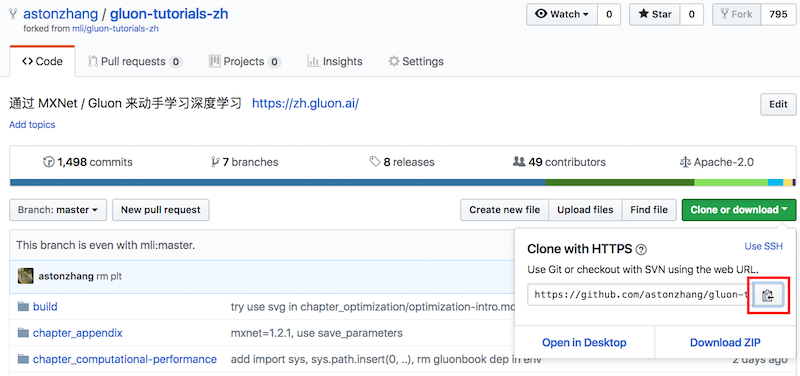
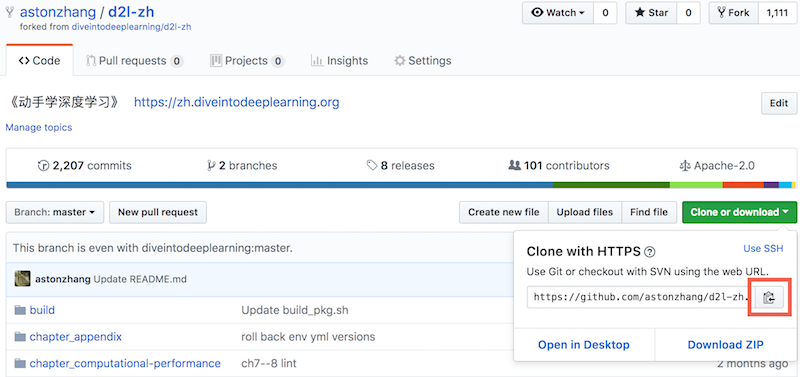
gluon_tutorials_zh to d2l-zh

diff --git a/chapter_appendix/how-to-contribute.md b/chapter_appendix/how-to-contribute.md
@@ -15,7 +15,7 @@
 ![代码库的页面。](../img/contrib01.png)
 
 
-这时，本书的代码库会复制到你的用户名下，例如图11.21左上方显示的“你的Github ID/gluon-tutorials-zh”。
+这时，本书的代码库会复制到你的用户名下，例如图11.21左上方显示的“你的Github ID/d2l-zh”。
 
 ![复制代码库。](../img/contrib02.png)
 
@@ -24,13 +24,13 @@
 
 ```
 # 将 your_Github_ID 替换成你的 Github 用户名。
-git clone https://github.com/your_Github_ID/gluon-tutorials-zh.git
+git clone https://github.com/your_Github_ID/d2l-zh.git
 ```
 
-这时，本地的“~/repo/gluon-tutorials-zh”路径下将包含本书代码库中的所有文件。
+这时，本地的“~/repo/d2l-zh”路径下将包含本书代码库中的所有文件。
 
 
-第四步，编辑本地路径下的本书代码库。假设我们修改了`~/repo/gluon-tutorials-zh/chapter_deep-learning-basics/linear-regression.md`文件中的一个错别字。在命令行模式中进入路径`~/repo/gluon-tutorials-zh`，执行命令
+第四步，编辑本地路径下的本书代码库。假设我们修改了`~/repo/d2l-zh/chapter_deep-learning-basics/linear-regression.md`文件中的一个错别字。在命令行模式中进入路径`~/repo/d2l-zh`，执行命令
 
 ```
 git status
@@ -51,7 +51,7 @@ git push
 其中的`'fix typo in linear-regression.md'`是描述提交改动的信息，也可以替换为其他有意义的描述信息。
 
 
-第五步，再次在浏览器输入本书代码库地址 [2]。点击图11.20左方红框中的“New pull request”按钮。在弹出的页面中，点击图11.23右方红框中的“compare across forks”链接，再点击下方红框中的“head fork: mli/gluon-tutorials-zh”按钮。在弹出的文本框中输入你的Github ID，在下拉菜单中选择“你的Github-ID/gluon-tutorials-zh”，如图11.23所示。
+第五步，再次在浏览器输入本书代码库地址 [2]。点击图11.20左方红框中的“New pull request”按钮。在弹出的页面中，点击图11.23右方红框中的“compare across forks”链接，再点击下方红框中的“head fork: diveintodeeplearning/d2l-zh”按钮。在弹出的文本框中输入你的Github ID，在下拉菜单中选择“你的Github-ID/d2l-zh”，如图11.23所示。
 
 
 ![选择改动来源所在的代码库。](../img/contrib04.png)

diff --git a/chapter_prerequisite/install.md b/chapter_prerequisite/install.md
@@ -14,9 +14,9 @@
 
 第二步：下载包含本书全部代码的压缩包。我们可以在浏览器的地址栏中输入以下地址并按回车键进行下载：
 
-> https://zh.gluon.ai/gluon_tutorials_zh-1.0.zip
+> https://zh.diveintodeeplearning.org/d2l-zh-1.0.zip
 
-下载完成后，创建文件夹“gluon_tutorials_zh-1.0”并将以上压缩包解压到这个文件夹。在该目录文件资源管理器的地址栏输入`cmd`进入命令行模式。
+下载完成后，创建文件夹“d2l-zh”并将以上压缩包解压到这个文件夹。在该目录文件资源管理器的地址栏输入`cmd`进入命令行模式。
 
 第三步：使用Conda创建并激活环境。Conda默认使用国外站点来下载软件，以下可选项配置使用国内镜像加速下载:
 
@@ -77,9 +77,9 @@ to PATH in your /home/your_name/.conda ? [yes|no]
 第二步：下载包含本书全部代码的压缩包，解压后进入文件夹。运行以下命令。
 
 ```
-mkdir gluon_tutorials_zh-1.0 && cd gluon_tutorials_zh-1.0
-curl https://zh.gluon.ai/gluon_tutorials_zh-1.0.tar.gz -o tutorials.tar.gz
-tar -xzvf tutorials.tar.gz && rm tutorials.tar.gz
+mkdir d2l-zh && cd d2l-zh
+curl https://zh.diveintodeeplearning.org/d2l-zh-1.0.zip -o d2l-zh.zip
+unzip d2l-zh.zip && rm d2l-zh.zip
 ```
 
 第三至五步请参考前面Windows下的安装步骤。其中第四步需将命令替换为
@@ -92,12 +92,11 @@ source activate gluon
 
 为了适应深度学习和MXNet的快速发展，本书的开源内容将定期发布新版本。我们推荐大家定期更新本书的开源内容（例如代码）和相应的运行环境（例如新版MXNet）。以下是更新的具体步骤。
 
-第一步，重新下载最新的包含本书全部代码的压缩包。下载地址可以从以下二者之间选择。
+第一步，重新下载最新的包含本书全部代码的压缩包。下载地址：
 
-* https://zh.gluon.ai/gluon_tutorials_zh.zip
-* https://zh.gluon.ai/gluon_tutorials_zh.tar.gz
+* https://zh.diveintodeeplearning.org/d2l-zh.zip
 
-解压后进入文件夹“gluon_tutorials_zh”。
+解压后进入文件夹“d2l-zh”。
 
 第二步，使用下面命令更新运行环境。
 

diff --git a/chapter_appendix/jupyter.md b/chapter_appendix/jupyter.md
@@ -5,7 +5,7 @@
 
 ## 在本地编辑和运行本书代码
 
-下面我们介绍如何在本地使用Jupyter笔记本来编辑和运行本书代码。假设本书代码所在的本地路径为“xx/yy/gluon_tutorials_zh-1.0/”。在命令行模式下进入该路径（`cd xx/yy/gluon_tutorials_zh-1.0`），然后运行命令`jupyter notebook`。这时在浏览器打开 http://localhost:8888 （通常会自动打开）就可以看到Jupyter笔记本的界面和本书代码所在的各个文件夹，如图11.1所示。
+下面我们介绍如何在本地使用Jupyter笔记本来编辑和运行本书代码。假设本书代码所在的本地路径为“xx/yy/d2l-zh/”。在命令行模式下进入该路径（`cd xx/yy/d2l-zh`），然后运行命令`jupyter notebook`。这时在浏览器打开 http://localhost:8888 （通常会自动打开）就可以看到Jupyter笔记本的界面和本书代码所在的各个文件夹，如图11.1所示。
 
 ![本书代码所在的各个文件夹。](../img/jupyter00.png)
 
@@ -53,8 +53,8 @@
 如果你希望为本书内容做贡献，需要修改在GitHub上markdown格式的源文件（.md文件非.ipynb文件）。通过notedown插件，我们就可以使用Jupyter笔记本修改并运行markdown格式的源代码。Linux/macOS用户可以执行以下命令获得GitHub源文件并激活运行环境。
 
 ```
-git clone https://github.com/mli/gluon-tutorials-zh
-cd gluon-tutorials-zh
+git clone https://github.com/diveintodeeplearning/d2l-zh.git
+cd d2l-zh
 conda env create -f environment.yml
 source activate gluon # Windows 用户运行 activate gluon
 ```

diff --git a/chapter_appendix/aws.md b/chapter_appendix/aws.md
@@ -1,6 +1,6 @@
 # 使用AWS运行代码
 
-当本地机器的计算资源有限时，我们可以通过云计算服务获取更强大的计算资源来运行本书中的深度学习代码。本节将介绍如何在AWS（亚马逊的云计算服务）上申请实例并通过Jupyter笔记本运行代码。本节中的例子有如下两个步骤:  
+当本地机器的计算资源有限时，我们可以通过云计算服务获取更强大的计算资源来运行本书中的深度学习代码。本节将介绍如何在AWS（亚马逊的云计算服务）上申请实例并通过Jupyter笔记本运行代码。本节中的例子有如下两个步骤:
 
 1. 申请含一个K80 GPU的“p2.xlarge”实例。
 2. 安装CUDA及相应GPU版本的MXNet。
@@ -134,9 +134,9 @@ to PATH in your /home/ubuntu/.bashrc ? [yes|no]
 安装完成后，运行一次`source ~/.bashrc`让CUDA和conda生效。接下来，下载本书代码、安装并激活conda环境。
 
 ```
-mkdir gluon_tutorials_zh && cd gluon_tutorials_zh
-curl https://zh.gluon.ai/gluon_tutorials_zh.tar.gz -o tutorials.tar.gz
-tar -xzvf tutorials.tar.gz && rm tutorials.tar.gz
+mkdir d2l-zh && cd d2l-zh
+curl https://zh.diveintodeeplearning.org/d2l-zh-1.0.zip -o d2l-zh.zip
+unzip d2l-zh.zip && rm d2l-zh.zip
 conda env create -f environment.yml
 source activate gluon
 ```
